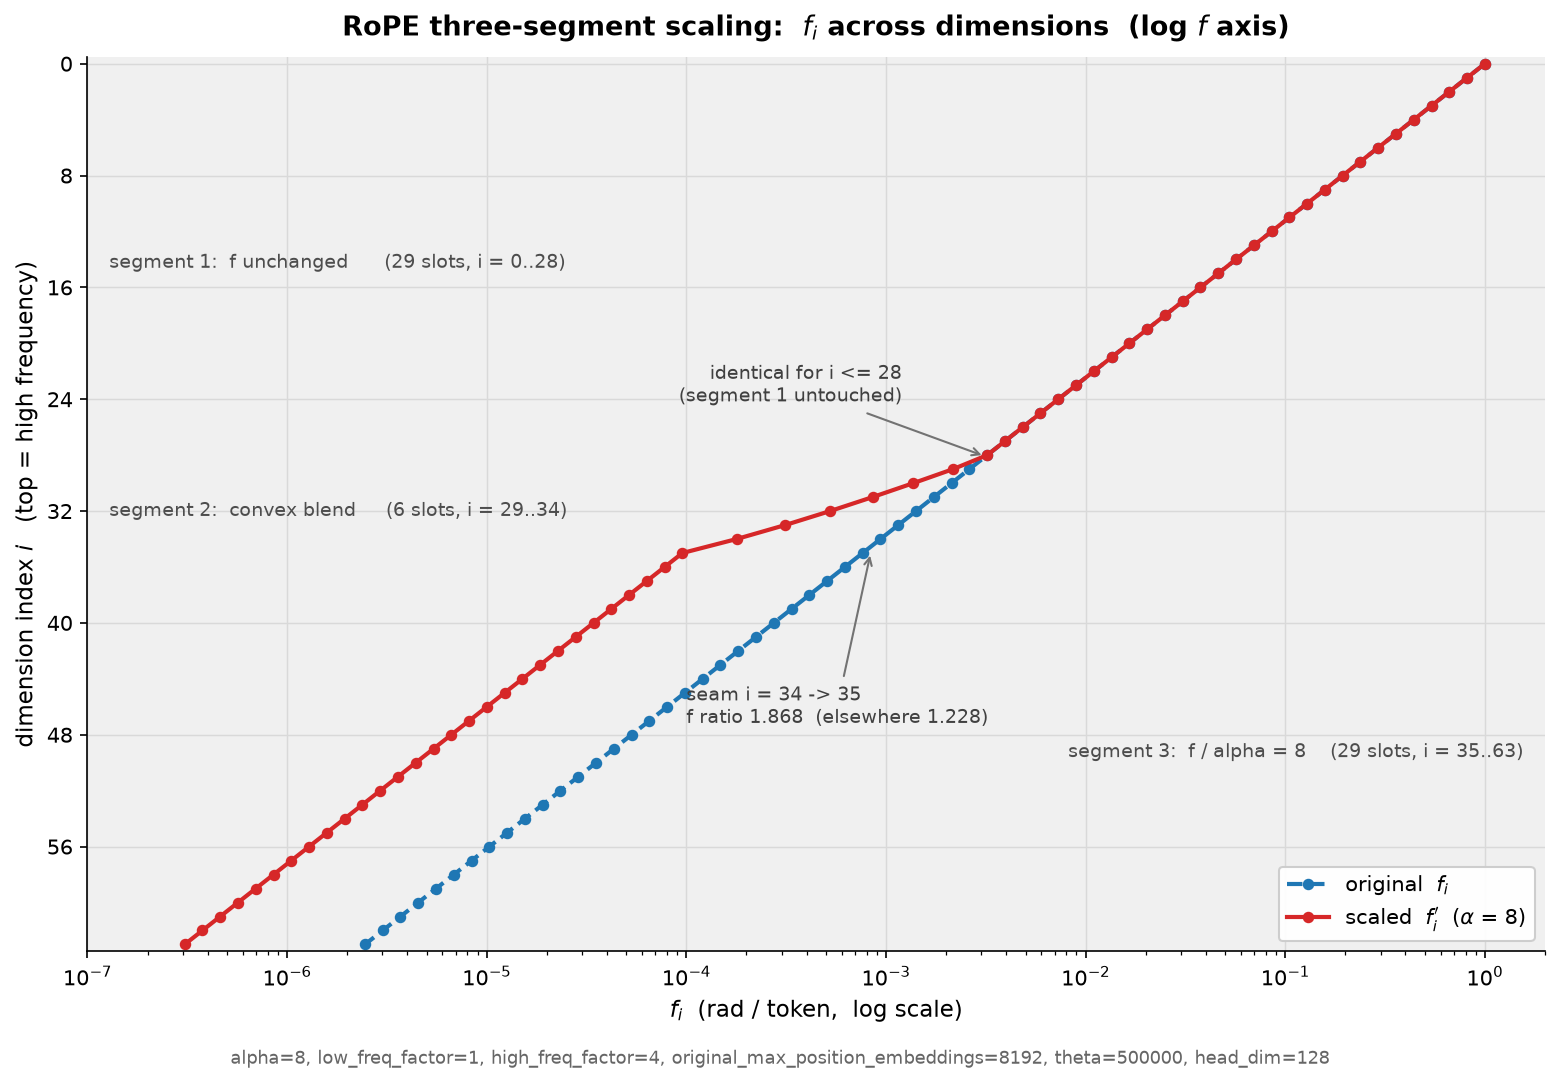
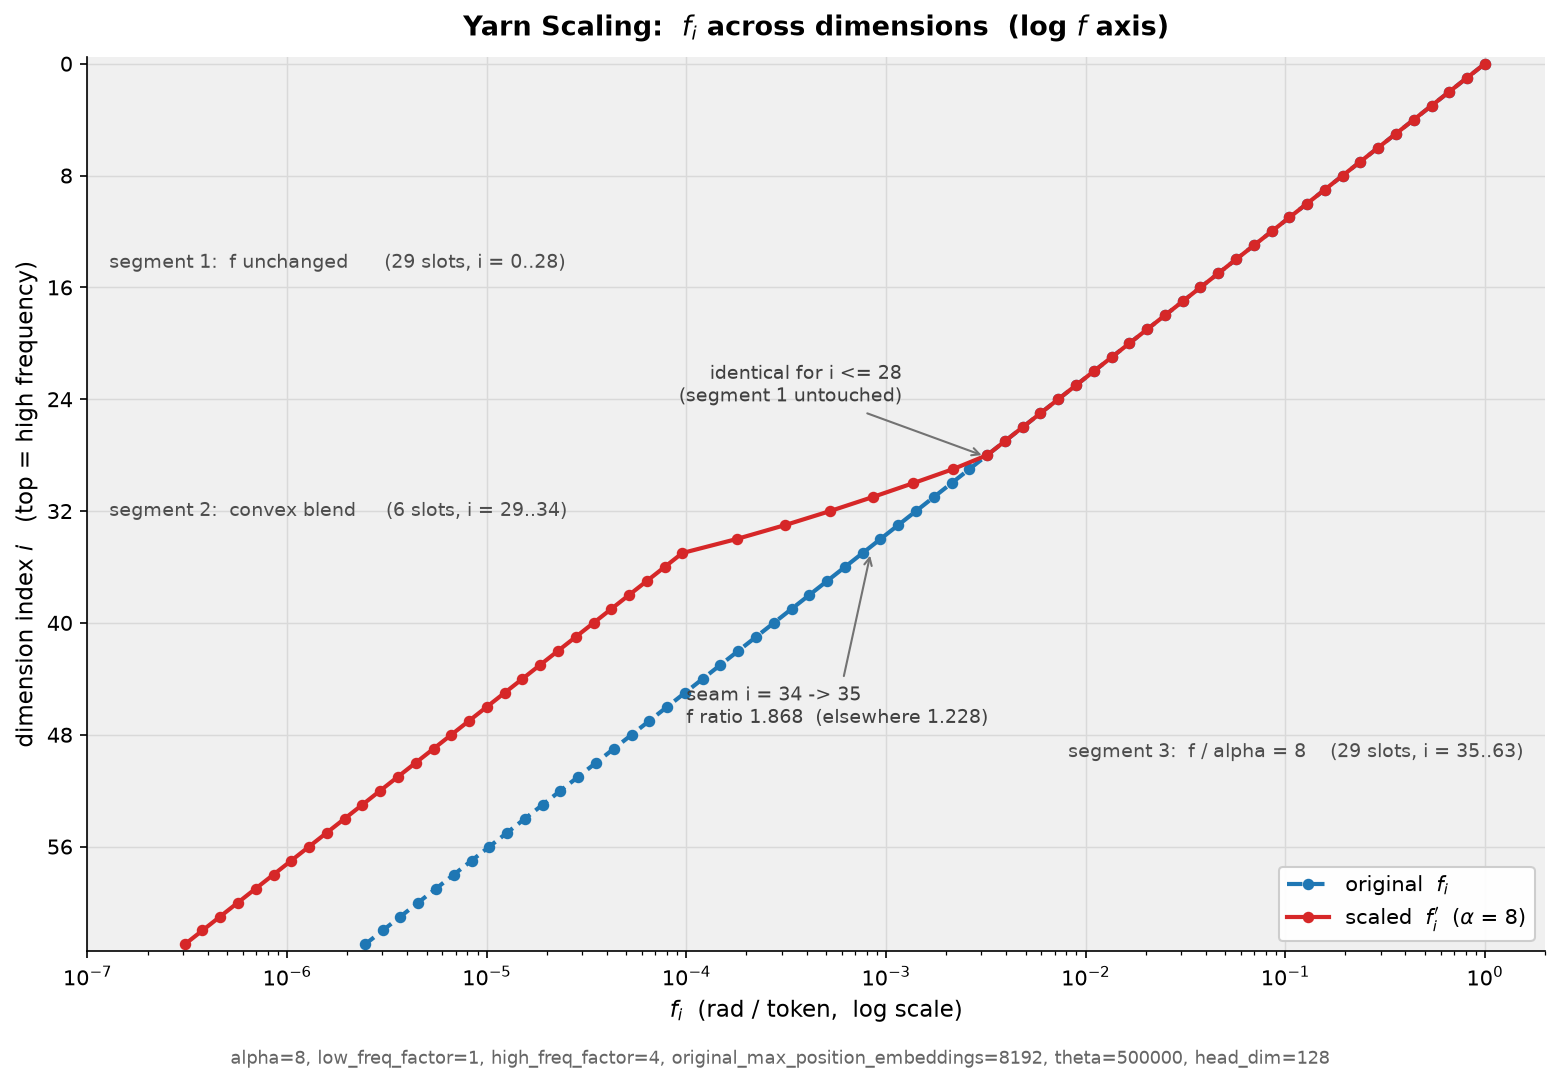
update yarn

Changed region(s): [[0.2154, 0.0, 0.8308, 0.0305]]

diff --git a/19-rope-yarn/plot.py b/19-rope-yarn/plot.py
@@ -1,5 +1,5 @@
 """
-Llama-3.1 RoPE three-segment frequency scaling -- dimension vs frequency plots.
+Llama-3.1 RoPE yarn scaling -- dimension vs frequency plots.
 
 Configuration being visualised:
     head_dim d = 128, rope_theta = 500000, factor alpha = 8,
@@ -10,7 +10,7 @@ Outputs (labels in English only):
     fig1_rope_dim_vs_f_log.png      f axis on a log scale
     fig2_rope_dim_vs_f_linear.png   f axis on a linear scale (for comparison)
 
-Run:  python3 rope_three_segment_plot.py
+Run:  python3 plot.py
 """
 
 import numpy as np
@@ -35,7 +35,7 @@ LAM_HIGH = L_ORIG / HIGH                # 2048 -> keep-unchanged branch
 
 
 def llama3_scaled(f, lam, factor=FACTOR, low=LOW, high=HIGH, l_orig=L_ORIG):
-    """Llama-3 style three-segment scaling; returns (f', s, k)."""
+    """Llama-3 yarn scaling; returns (f', s, k)."""
     f_scaled = np.empty_like(f)
     s_out = np.zeros_like(f)
     k_out = np.ones_like(f)
@@ -117,14 +117,14 @@ ax.annotate("seam i = 34 -> 35\nf ratio 1.868  (elsewhere 1.228)",
             arrowprops=dict(arrowstyle="->", lw=1.0, color="0.45", shrinkB=4))
 
 ax.legend(loc="lower right", fontsize=10, frameon=True, framealpha=0.95)
-ax.set_title(r"RoPE three-segment scaling:  $f_i$ across dimensions  (log $f$ axis)",
+ax.set_title(r"Yarn Scaling:  $f_i$ across dimensions  (log $f$ axis)",
              fontsize=13, fontweight="bold", pad=10)
 fig.text(0.5, 0.008,
          "alpha=8, low_freq_factor=1, high_freq_factor=4, "
          "original_max_position_embeddings=8192, theta=500000, head_dim=128",
          ha="center", fontsize=8.5, color="0.4")
 fig.tight_layout(rect=(0, 0.025, 1, 1))
-fig.savefig("./images/fig1_rope_dim_vs_f_log.png", bbox_inches="tight")
+fig.savefig("./assets/fig1_rope_dim_vs_f_log.png", bbox_inches="tight")
 plt.close(fig)
 print("saved fig1_rope_dim_vs_f_log.png")
 
@@ -159,7 +159,7 @@ fig.text(0.5, 0.008,
          "Identical parameters to the log version -- only the x axis scale changed",
          ha="center", fontsize=8.5, color="0.4")
 fig.tight_layout(rect=(0, 0.025, 1, 1))
-fig.savefig("./images/fig2_rope_dim_vs_f_linear.png", bbox_inches="tight")
+fig.savefig("./assets/fig2_rope_dim_vs_f_linear.png", bbox_inches="tight")
 plt.close(fig)
 print("saved fig2_rope_dim_vs_f_linear.png")
 

diff --git a/19-rope-yarn/README.md b/19-rope-yarn/README.md
@@ -5,16 +5,9 @@
 
 **一句话结论**：缩放**不增加频率槽位的数量**（恒为 $`d_{\mathrm{head}}/2=64`$），它把低频槽位的角频率除以 $`\alpha`$，把中频槽位在“除以 $`\alpha`$”与“保持不变”之间做凸组合，高频槽位完全不动，让 128k 位置上的相位组合重新落回训练分布内。
 
-| 关键事实 | 数值（Llama-3.1-8B） |
-| --- | --- |
-| 频率槽位数 | $`64`$（$`d_{\mathrm{head}}=128`$，与缩放无关） |
-| $`\theta`$ / $`\alpha`$ / $`\ell`$ / $`h`$ / $`L`$ | $`500000`$ / $`8`$ / $`1`$ / $`4`$ / $`8192`$ |
-| 分界波长 | $`\lambda_{\mathrm{low}}=8192`$，$`\lambda_{\mathrm{high}}=2048`$ |
-| 三段槽位分配 | 不动 $`29`$ 个（$`i=0,\ldots,28`$）、插值 $`6`$ 个（$`i=29,\ldots,34`$）、除以 $`8`$ 共 $`29`$ 个（$`i=35,\ldots,63`$） |
-| 名义覆盖长度 | $`8192\times 8=65536`$ |
-| 128k 映射回旧坐标 | $`131072/8=16384`$，仍大于 $`8192`$ |
-
 ---
+
+![log f axis](./assets/fig1_rope_dim_vs_f_log.png)
 
 ## 目录
 
